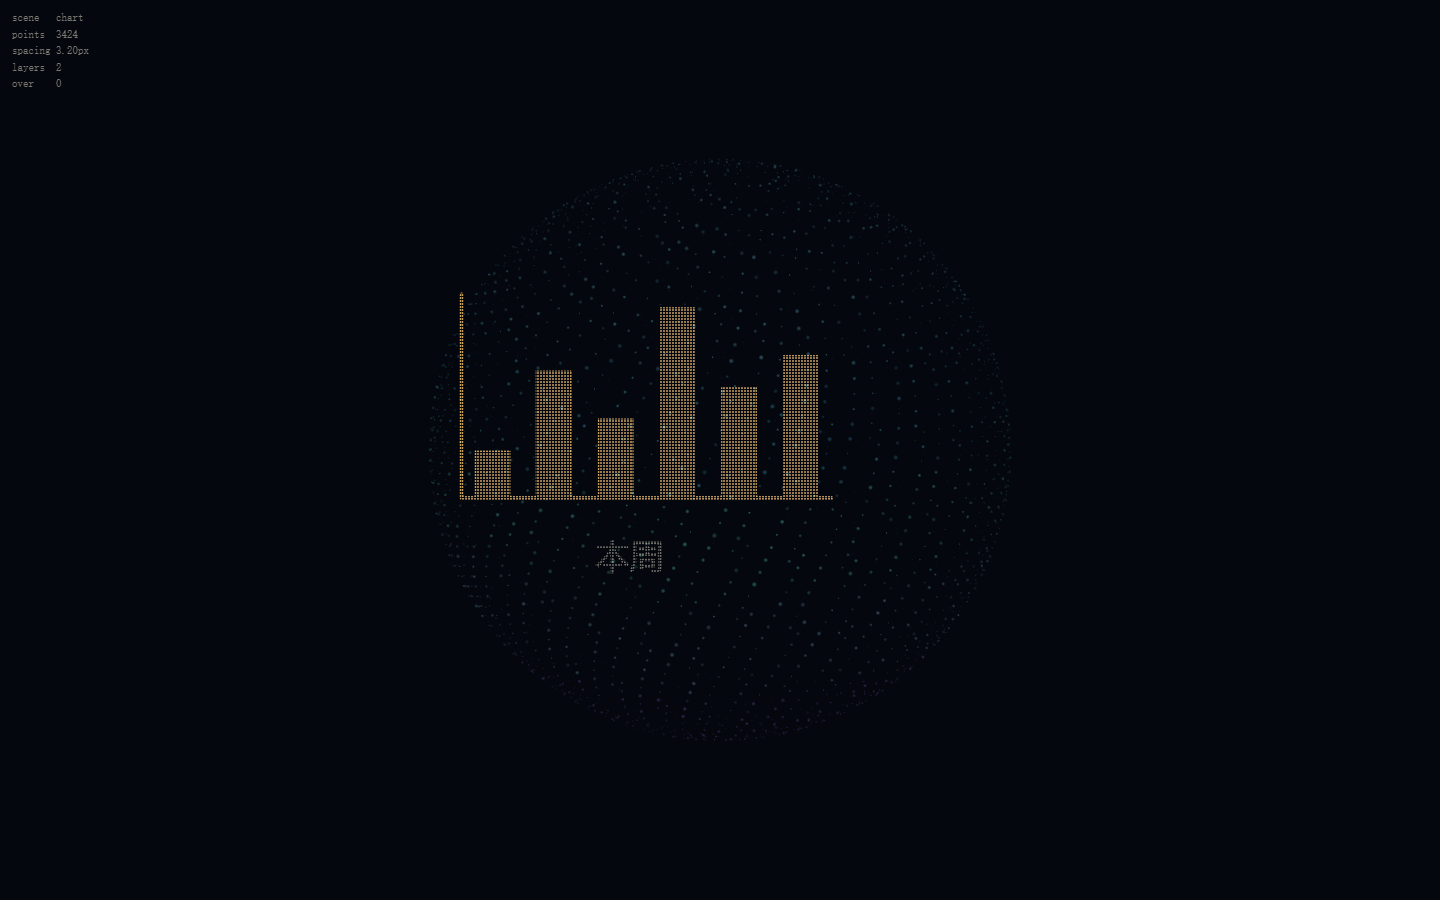
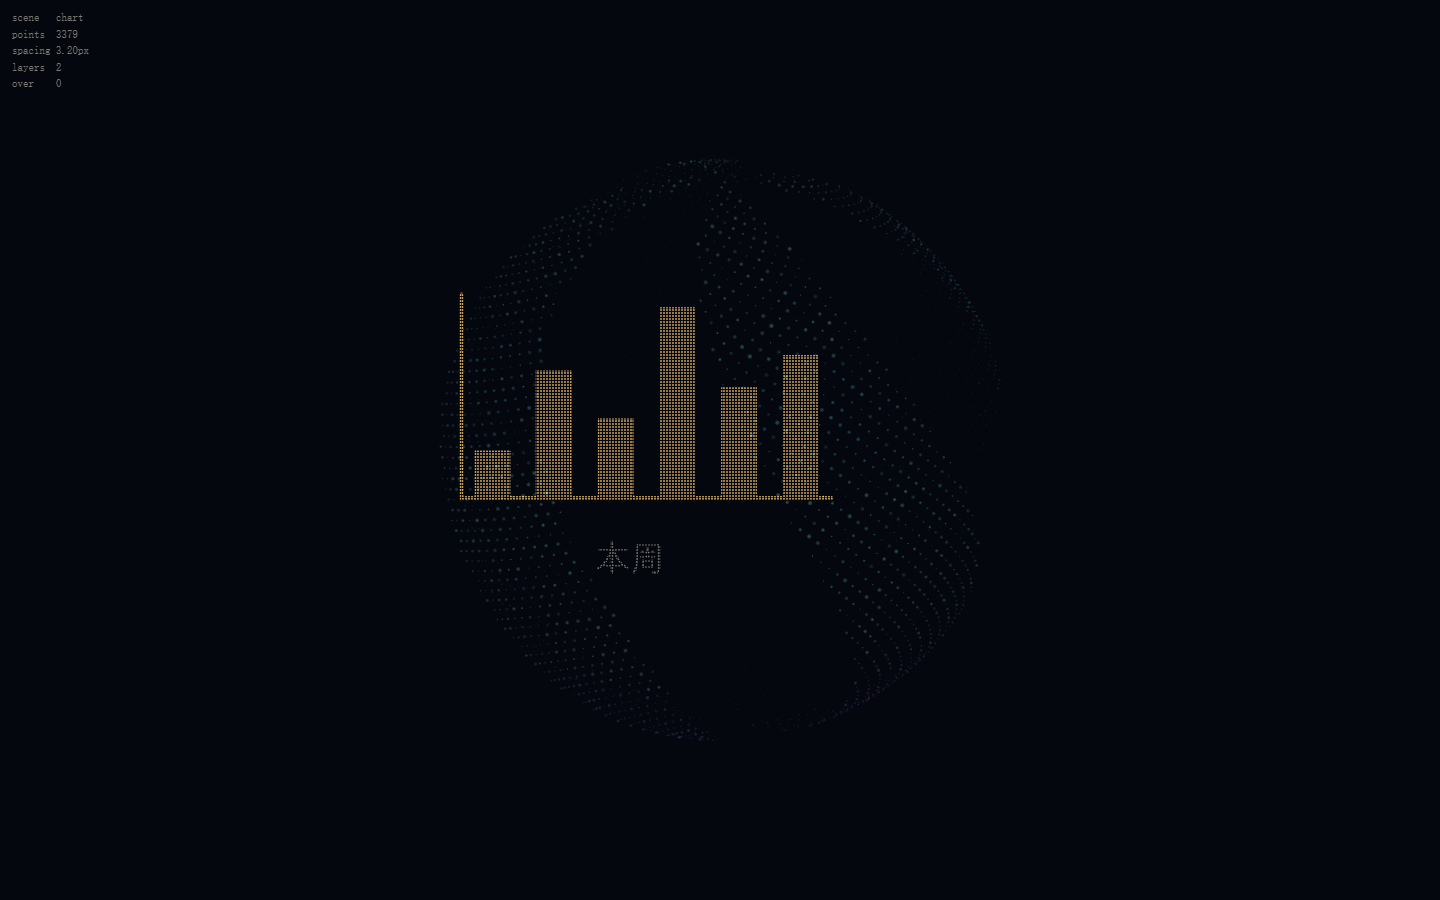
feat(粒子): 全粒子界面的第一版，以及「字重才是关键」这个结论
draw.js 的字体换成原型里调过的那套：DengXian Light / PingFang 300，
拉丁走 Bahnschrift Light。原来用系统 sans + 600，24px 汉字在 2~3px
点距下每一笔占 2~3 颗点，糊成墨块；换成细体后笔画正好收敛到一条
中线、一颗点，13px 勉强可读、16px 稳定、20px 以上舒适。

可读判据（比记固定字号有用）：字号 ≥ 6 × 点距。600 字重下笔画占
2~3 颗点，同一判据要乘 1.5。

field.js 加两个参数：
- geo.dot  点径缩放。UI 文字要"点"，绘画要"笔触"；点径压到 0.55
  反而更糊（笔画断成散点、背景球透出来），0.85~1.0 是安全区。
- geo.dim  未占位 ambient 的压暗比例。UI 必须压到 4%，否则球体的
  经纬弧会从字缝里穿过去，像脏屏幕。

shell/test-pui.html：全粒子界面 POC —— 窗框、标题、71%、正文、
按钮、输入框全是粒子；输入框是真的 <input>（color:transparent +
同字体度量），字由粒子画、光标由浏览器画，中文输入法候选框能定位。
按钮 hover 只改层色不改几何。

已知债（记在 docs §16）：打字每次 90ms 全量重编译，且 stride 分配
会让整屏粒子换目标（agent-pui-reflow.png 就是重排那一瞬）——
要按字形切固定槽位 + 字模点云缓存。

docs：新增 §4.5 全粒子界面的形态与约束；§7.3.1 的五组点数按细体
重测（文字 2884@3.2、复合 3456@2.2）；绘画截图全部重拍。

Changed region(s): [[0.4062, 0.5911, 0.4688, 0.6533]]

diff --git a/shell/test-pui.html b/shell/test-pui.html
@@ -1,0 +1,218 @@
+<!DOCTYPE html>
+<html lang="zh-CN">
+<head>
+<meta charset="utf-8">
+<title>粒子 UI 验证</title>
+<style>
+  html, body { margin: 0; height: 100%; background: #04070d; overflow: hidden; }
+  #scene { display: block; width: 100%; height: 100%; }
+  #hud {
+    position: fixed; left: 12px; top: 10px; color: #6d7e93;
+    font: 11px/1.5 ui-monospace, Menlo, monospace; white-space: pre; pointer-events: none;
+  }
+  /* 真实输入框：**完全透明**，只保留插入符与命中区。
+     文字由粒子画，光标由浏览器画 —— 中文输入法的候选框要靠这个真 caret 定位。 */
+  #type {
+    position: absolute; display: none;
+    background: transparent; border: 0; outline: 0;
+    color: transparent; caret-color: #7fd4ff;
+    font-family: "DengXian Light", "Microsoft YaHei Light", "PingFang SC", "Microsoft YaHei", ui-sans-serif, sans-serif;
+    font-size: 22px; font-weight: 300; letter-spacing: 0;
+    padding: 0; margin: 0;
+  }
+  #type::selection { background: rgba(111, 198, 255, 0.3); }
+</style>
+</head>
+<body>
+<canvas id="scene"></canvas>
+<div id="hud"></div>
+<input id="type" spellcheck="false" autocomplete="off" />
+
+<script type="importmap">{"imports":{"three":"./vendor/three.module.min.js"}}</script>
+<script type="module">
+import { Field } from './src/field.js';
+import { compileDraw, FONT, FONT_LAT } from './src/draw.js';
+
+const f = new Field(document.getElementById('scene'));
+const hud = document.getElementById('hud');
+window.__field = f;
+
+const q = new URLSearchParams(location.search);
+const scene = q.get('scene') || 'ladder';
+
+/* 绘制区：780×620，居中 */
+const AREA = { w: 780, h: 620 };
+const area = () => ({
+  w: AREA.w, h: AREA.h,
+  x: Math.round((innerWidth - AREA.w) / 2),
+  y: Math.round((innerHeight - AREA.h) / 2),
+});
+
+const C = {
+  ink: '#a9d4f7',      // 主文字
+  dim: '#6f93b8',      // 次要
+  line: '#4d7ba8',     // 发丝线
+  accent: '#7fe3cf',   // 强调
+};
+
+/* ───────── 场景一：字号阶梯 —— 粒子文字的可读下限在哪 ───────── */
+const SENTENCE = '服务器负载偏高';
+const LADDER = [13, 16, 20, 24, 28, 34, 42];
+
+function ladderLayers() {
+  const L = [];
+  L.push({ type: 'text', text: '同一句话，七种字号 —— 粒子能读到多小？', at: [20, 26], size: 15, color: C.dim, align: 'left' });
+  let y = 70;
+  LADDER.forEach((size) => {
+    L.push({ type: 'text', text: String(size) + 'px', at: [20, y], size: 13, color: C.line, align: 'left', baseline: 'alphabetic' });
+    L.push({ type: 'text', text: SENTENCE, at: [96, y], size, color: C.ink, align: 'left', baseline: 'alphabetic' });
+    y += Math.round(size * 1.9) + 8;
+  });
+  L.push({ type: 'line', from: [20, y + 4], to: [760, y + 4], width: 1, color: C.line });
+  return L;
+}
+
+/* ───────── 场景二：一屏粒子界面（含真输入框） ───────── */
+const state = { text: '下载完了告诉我', hover: false, focus: false };
+if (q.get('text')) state.text = q.get('text');   // 预设文本，便于截图看稳定态
+
+const BTN = { x: 26, y: 330, w: 148, h: 40, r: 10 };
+const FIELD = { x: 26, y: 404, w: 420, h: 46 };
+
+function roundRect(x, y, w, h, r) {
+  return `M${x + r},${y} H${x + w - r} Q${x + w},${y} ${x + w},${y + r}`
+    + ` V${y + h - r} Q${x + w},${y + h} ${x + w - r},${y + h}`
+    + ` H${x + r} Q${x},${y + h} ${x},${y + h - r}`
+    + ` V${y + r} Q${x},${y} ${x + r},${y} Z`;
+}
+
+function uiLayers() {
+  const L = [];
+  /* 窗框 + 标题栏：两条细线就够表达"这是一扇窗"，不需要毛玻璃 */
+  L.push({ type: 'path', d: roundRect(0.5, 0.5, AREA.w - 1, AREA.h - 1, 16), width: 1, color: C.line });
+  L.push({ type: 'line', from: [16, 50], to: [AREA.w - 16, 50], width: 1, color: C.line });
+
+  L.push({ type: 'text', text: '服务器状态', at: [26, 25], size: 21, color: C.dim, align: 'left' });
+  L.push({ type: 'text', text: '10-17', at: [AREA.w - 26, 25], size: 15, font: FONT_LAT, color: C.line, align: 'right' });
+
+  /* 大数字：粒子最适合的就是这种"一眼可见"的信息 */
+  L.push({ type: 'text', text: '71%', at: [26, 118], size: 68, weight: 300, font: FONT_LAT, color: C.ink, align: 'left' });
+  L.push({ type: 'text', text: 'CPU 峰值 · 持续 4 小时', at: [26, 156], size: 20, color: C.dim, align: 'left' });
+
+  L.push({ type: 'line', from: [26, 190], to: [AREA.w - 26, 190], width: 1, color: C.line });
+
+  /* 正文：24px 是阶梯测出来的下限附近，这里用 24 */
+  const body = [
+    'n8n 的一个工作流在反复重启，',
+    '已经把并发从 8 降到 3。',
+    '内存最低还剩 3.1 GB。',
+  ];
+  body.forEach((t, i) => {
+    L.push({ type: 'text', text: t, at: [26, 224 + i * 34], size: 24, color: C.ink, align: 'left' });
+  });
+
+  /* 按钮：粒子画框 + 粒子画字；hover 只改颜色，不改几何 */
+  L.push({ type: 'path', d: roundRect(BTN.x, BTN.y, BTN.w, BTN.h, BTN.r), width: 1,
+    color: state.hover ? C.accent : C.line });
+  L.push({ type: 'text', text: '查看日志', at: [BTN.x + BTN.w / 2, BTN.y + BTN.h / 2], size: 22,
+    color: state.hover ? C.accent : C.dim });
+
+  /* 输入行：框线 + 粒子文字（真的字在下面的透明 input 里） */
+  L.push({ type: 'path', d: roundRect(FIELD.x, FIELD.y, FIELD.w, FIELD.h, 10), width: 1,
+    color: state.focus ? C.accent : C.line });
+  const shown = state.text || '说点什么…';
+  L.push({ type: 'text', text: shown, at: [FIELD.x + 14, FIELD.y + FIELD.h / 2], size: 22,
+    color: state.text ? C.ink : C.line, align: 'left' });
+
+  return L;
+}
+
+/* ───────── 渲染 ───────── */
+const typeEl = document.getElementById('type');
+let lastMs = 0;
+
+function layoutOverlay(a) {
+  if (scene !== 'ui') return;
+  const r = typeEl.getBoundingClientRect();
+  typeEl.style.display = 'block';
+  typeEl.style.left = a.x + FIELD.x + 14 + 'px';
+  typeEl.style.top = a.y + FIELD.y + 9 + 'px';
+  typeEl.style.width = FIELD.w - 28 + 'px';
+  typeEl.style.height = FIELD.h - 18 + 'px';
+  typeEl.style.lineHeight = FIELD.h - 18 + 'px';
+  void r;
+}
+
+function render(opt = {}) {
+  const a = area();
+  const t0 = performance.now();
+  const layers = scene === 'ladder' ? ladderLayers() : uiLayers();
+  const pack = compileDraw({ points: opt.points || Number(q.get('pts') || 6200), layers }, a);
+  const dot = Number(opt.dot ?? q.get('dot') ?? 1);
+  const r = f.setDraw(pack, { ...a, drawOnMs: opt.drawOnMs ?? 0, dot, dim: scene === 'ui' ? 0.96 : 0.82 });
+  lastMs = performance.now() - t0;
+  layoutOverlay(a);
+  hud.textContent = [
+    `scene    ${scene}`,
+    `points   ${r.used} / 6400`,
+    `spacing  ${pack.spacing.toFixed(2)}px`,
+    `compile  ${lastMs.toFixed(1)}ms  dot ${dot}`,
+    `text     ${state.text.length} 字`,
+  ].join('\n');
+  return { used: r.used, spacing: pack.spacing, ms: lastMs };
+}
+
+window.__render = render;
+window.__state = state;
+
+/* 输入：每敲一个字重编译一次，量一下够不够快 */
+typeEl.addEventListener('input', () => {
+  state.text = typeEl.value.slice(0, 24);
+  render();
+});
+typeEl.addEventListener('focus', () => { state.focus = true; render(); });
+typeEl.addEventListener('blur', () => { state.focus = false; render(); });
+
+/* 按钮 hover：只在状态翻转时重编译，不是每帧 */
+addEventListener('pointermove', (e) => {
+  if (scene !== 'ui') return;
+  const a = area();
+  const x = e.clientX - a.x;
+  const y = e.clientY - a.y;
+  const on = x > BTN.x && x < BTN.x + BTN.w && y > BTN.y && y < BTN.y + BTN.h;
+  if (on !== state.hover) { state.hover = on; render(); }
+  const onField = x > FIELD.x && x < FIELD.x + FIELD.w && y > FIELD.y && y < FIELD.y + FIELD.h;
+  if (onField) typeEl.style.cursor = 'text';
+});
+
+/* 点输入框区域就聚焦 */
+addEventListener('pointerdown', (e) => {
+  if (scene !== 'ui') return;
+  const a = area();
+  const x = e.clientX - a.x;
+  const y = e.clientY - a.y;
+  if (x > FIELD.x && x < FIELD.x + FIELD.w && y > FIELD.y && y < FIELD.y + FIELD.h) typeEl.focus();
+});
+
+let last = performance.now();
+let frames = 0;
+let fpsT = 0;
+function loop(now) {
+  const dt = Math.min((now - last) / 1000, 0.05);
+  last = now;
+  f.step(dt);
+  f.render();
+  frames++;
+  fpsT += dt;
+  if (fpsT > 0.5) { window.__fps = Math.round(frames / fpsT); frames = 0; fpsT = 0; }
+  requestAnimationFrame(loop);
+}
+
+setTimeout(() => {
+  render({ drawOnMs: 1800 });
+  typeEl.value = state.text;
+  requestAnimationFrame(loop);
+}, 250);
+</script>
+</body>
+</html>

diff --git a/shell/src/field.js b/shell/src/field.js
@@ -1738,7 +1738,9 @@ export class Field {
          否则整幅画上下颠倒（字会翻过来、柱状图会从顶边往下挂）。 */
       this.drawY[i] = cy - (p.y + oy);
       this.drawA[i] = 0.55 + 0.45 * ink;      // 墨越厚越亮
-      this.drawS[i] = 1.9 + 0.8 * ink;
+      /* dot：点径缩放。绘画要"笔触"（默认 1），UI 文字要"点"——
+         点径大于字距时笔画会糊成一坨墨，20px 的汉字尤其明显。 */
+      this.drawS[i] = (1.9 + 0.8 * ink) * (geo.dot ?? 1);
       this.drawD[i] = k / cnt;
       this.drawCol[i * 3] = p.c[0];
       this.drawCol[i * 3 + 1] = p.c[1];
@@ -1749,6 +1751,7 @@ export class Field {
     this.drawOn = 1;
     this.drawStart = this.time;
     this.drawOnMs = geo.drawOnMs ?? 0;
+    this.drawDim = geo.dim ?? 0.78;   // 未进画/未占位的 ambient 压暗比例（UI 用 0.96+）
     return { used: cnt, spacing: pack.spacing || 0 };
   }
 
@@ -2001,8 +2004,10 @@ export class Field {
           * (1 + 0.45 * beat);
         ss = this.baseS[i] * (0.45 + 1.5 * dzk) * szm;
         /* 作画时其余粒子压到很暗 —— 留着是"画长在粒子海里"的层次，
-           但亮度必须低到不跟画面抢注意力（0.22 时只剩一层若有若无的底噪） */
-        if (drawMix > 0.002) sa *= 1 - 0.78 * drawMix;
+           但亮度必须低到不跟画面抢注意力（0.22 时只剩一层若有若无的底噪）。
+           UI 模式要更狠（geo.dim→0.97）：一屏粒子界面背后若还浮着球体的经纬弧，
+           那些弧会从字缝里穿过去，读起来像脏屏幕。 */
+        if (drawMix > 0.002) sa *= 1 - (this.drawDim ?? 0.78) * drawMix;
       }
       this.alpha[i] += (sa - this.alpha[i]) * f;
       this.size[i] += (ss - this.size[i]) * f;

diff --git a/shell/src/draw.js b/shell/src/draw.js
@@ -14,7 +14,17 @@
  *   3. 采样只做一次、结果存成静态缓冲，不要每帧重算（每帧抖动 = 噪点）
  */
 
-const FONT = 'ui-sans-serif, system-ui, -apple-system, "Segoe UI", "PingFang SC", "Microsoft YaHei", sans-serif';
+/* 字体：走原型调过的那一套 —— **细体**，不是系统默认。
+ *
+ * 这件事对点阵影响非常大：600 字重的汉字在 2~3px 点距下每一笔都是 2~3 颗点，
+ * 糊成一块墨；换成 Light（DengXian Light / PingFang 300）笔画只剩一条中线，
+ * 正好一颗点，字才立得起来。
+ *
+ * Mac 上没有等线，靠 "PingFang SC" + font-weight:300 落到 Light 字面。
+ * 纯拉丁/数字（71%、10-17）用 Bahnschrift Light：更窄，粒子下更像仪表盘。 */
+export const FONT = '"DengXian Light","Microsoft YaHei Light","PingFang SC","Microsoft YaHei",ui-sans-serif,sans-serif';
+export const FONT_LAT = '"Bahnschrift Light",Bahnschrift,Candara,"PingFang SC","Segoe UI",sans-serif';
+const WEIGHT = 300;
 
 /* 表情库：只参数化三样东西 —— 眼型、眉斜率、嘴曲率。
  * 让模型说 "happy" 比自己写两条贝塞尔曲线可靠得多，也便宜得多。 */
@@ -236,7 +246,7 @@ function paintLayer(g, L, W, H) {
     }
     case 'text': {
       const size = L.size || 96;
-      g.font = `${L.weight || 600} ${size}px ${L.font || FONT}`;
+      g.font = `${L.weight ?? WEIGHT} ${size}px ${L.font || FONT}`;
       g.textAlign = L.align || 'center';
       g.textBaseline = L.baseline || 'middle';
       if (L.width && L.stroke) {
